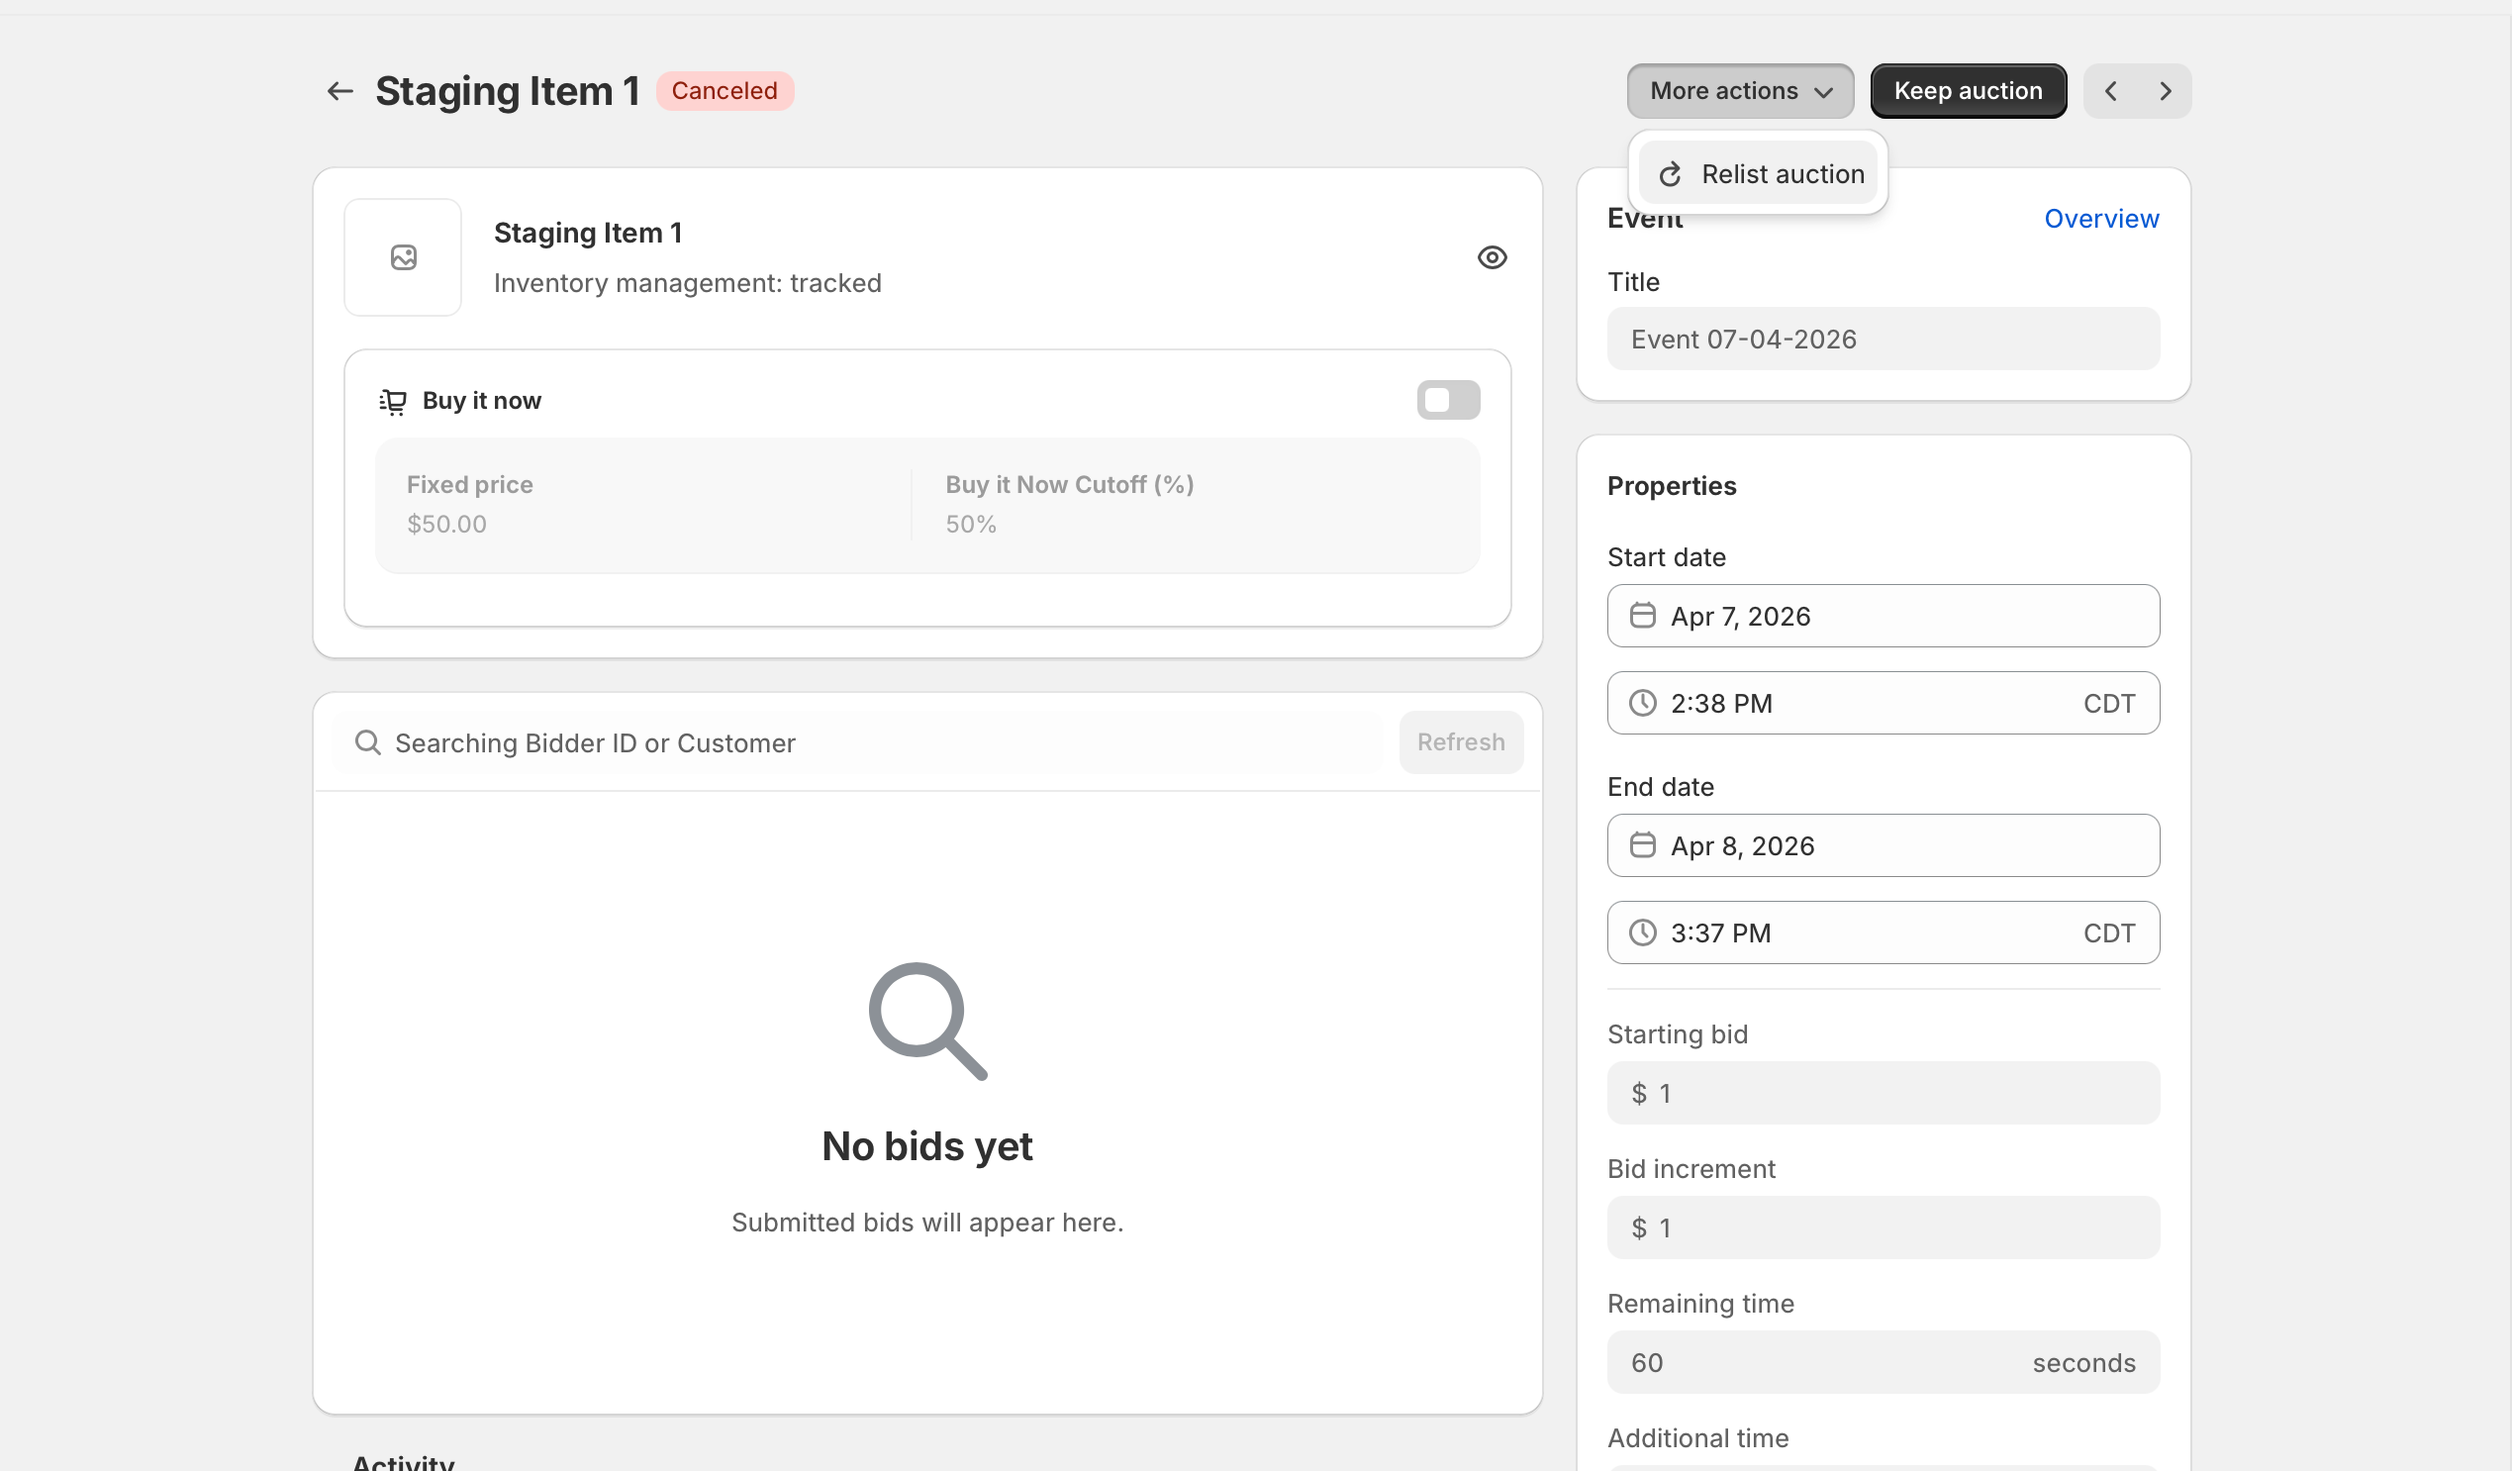
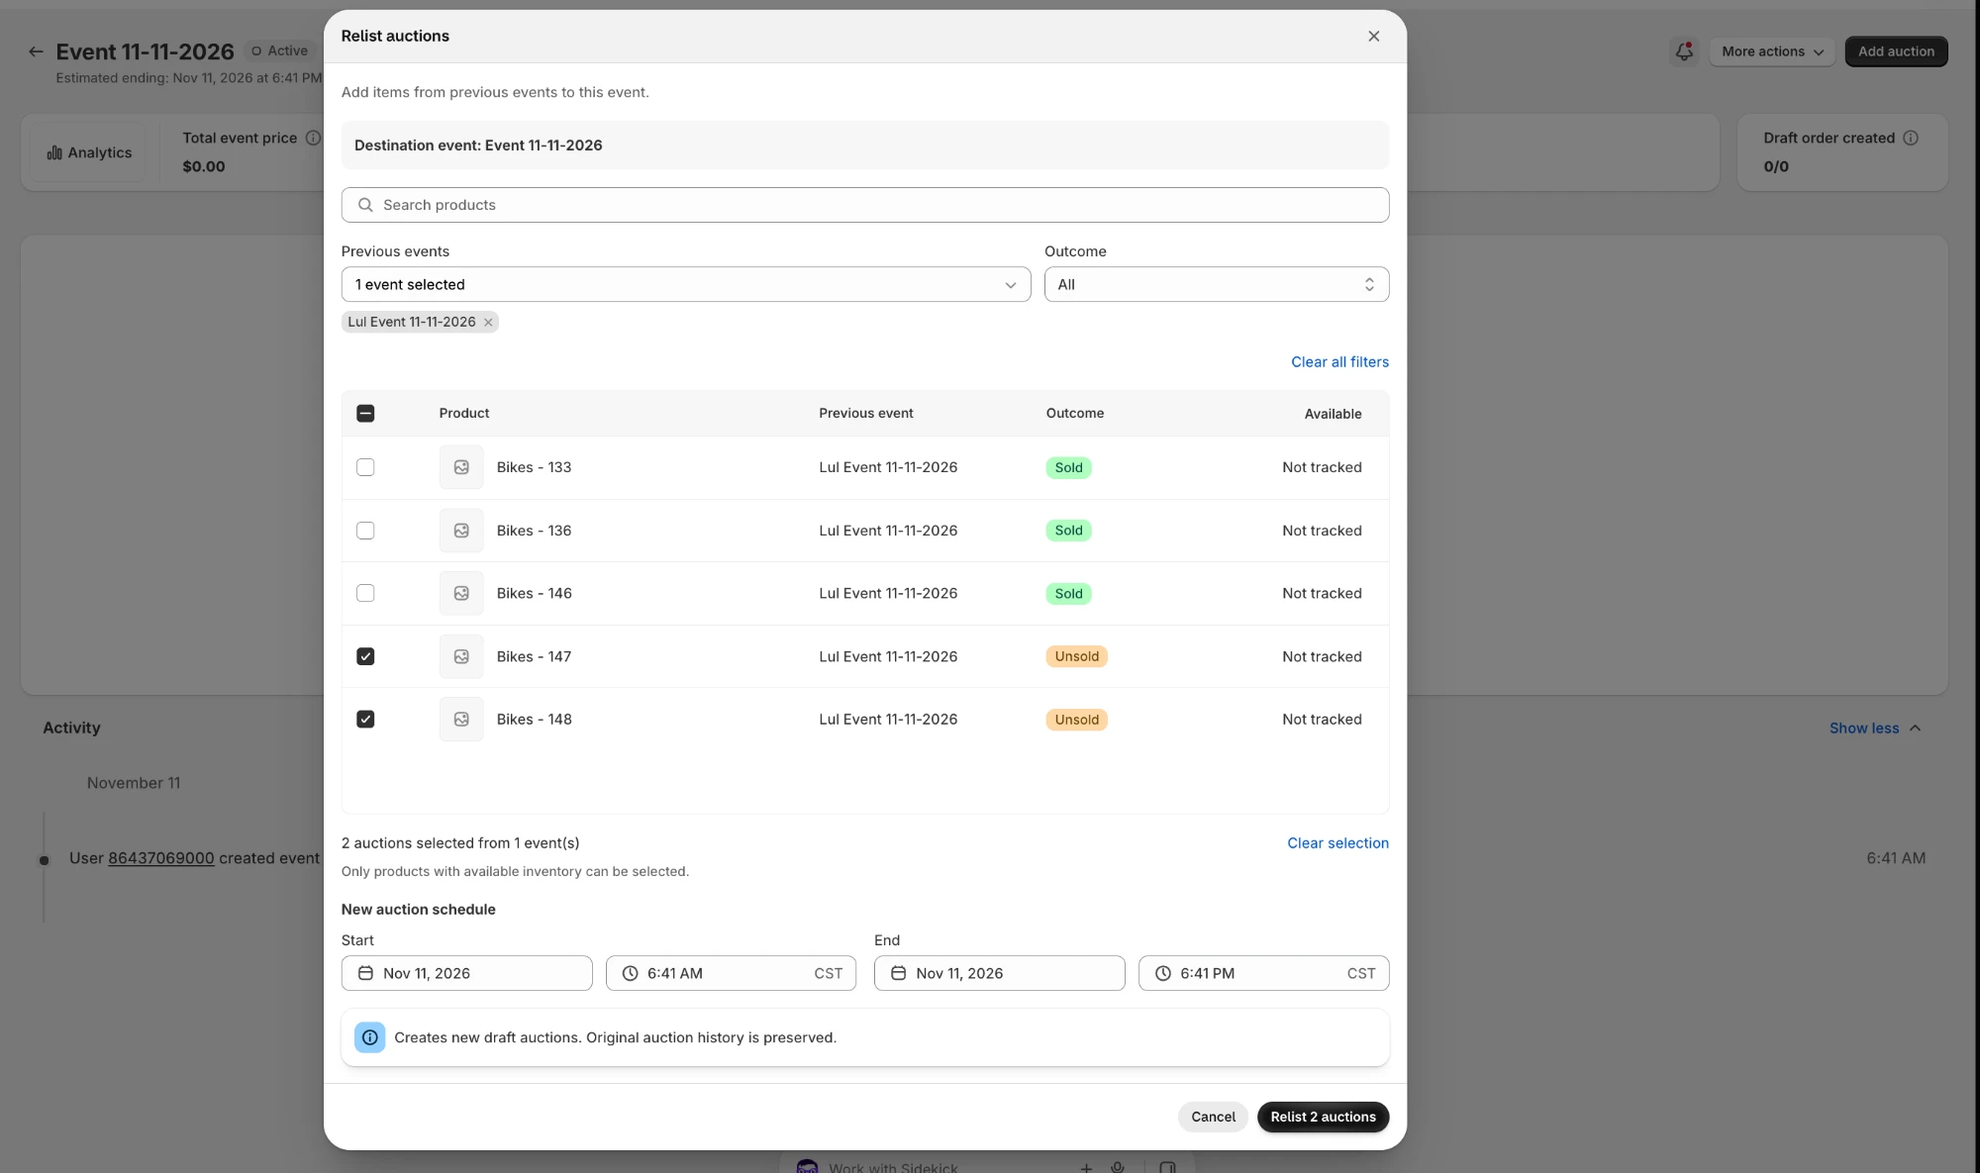
docs: update Relisting Auctions for the new relist flow

diff --git a/docs/managing-auctions/relisting-auctions.md b/docs/managing-auctions/relisting-auctions.md
@@ -1,124 +1,140 @@
 ---
 title: "Relisting Auctions"
-description: "Relist an ended or canceled auction in a few clicks. The new auction copies the original settings into the event you choose."
+description: "Bring auctions from previous events into a new event: filter by outcome, choose the auctions, set a new schedule and relist them in one go."
 ---
 
-Relisting lets you quickly create a new auction from one that has already ended or was canceled. The new auction copies the original auction settings and creates a new version inside the event you choose.
+Relisting lets you bring auctions from previous events into a new event, for example items that didn't sell or whose invoice expired. Relisting creates new auctions. The original auctions and their history stay unchanged.
 
-:::info
+You can relist auctions in two ways:
 
-When you relist an auction, all auction settings are duplicated except the start and end dates. The new auction is created as a **Draft** by default.
+- **From the event page**: relist auctions straight into the event as drafts. See [Relist auctions into an event](#relist-auctions-into-an-event).
+- **From the Add auctions page**: add relisted items to the list of products you're adding, then publish them or save them as drafts. See [Relist while adding auctions](#relist-while-adding-auctions).
 
-:::
-
-By default, the auction start time is set to the time you relist it, and the auction end time is aligned with the selected event’s estimated end time. You can change both values before saving.
-
-### What carries over when you relist
-
-- Auction settings such as starting bid and bid increment
-- Buy It Now settings, if they were enabled on the original auction
-- The item connected to the original auction
-
-### What changes when you relist
-
-- You choose which event the new auction will be added to
-- You can set a new start date and time
-- You can set a new end date and time
-- The new auction is saved as a **Draft**
-
-:::note
-
-Relisting creates a new auction. It does not reopen or change the original ended or canceled auction.
-
-:::
-
-## Relist multiple auctions from an event
-
-You can relist several auctions at once from the event auction list. This is useful when you want to reuse multiple unsold or canceled items in a new event.
+## Relist auctions into an event
 
 #### 1. Open the event
 
-Go to the event that contains the auctions you want to reuse.
+Open the event you want to add the auctions to.
 
-#### 2. Select the auctions
+#### 2. Open Relist auctions
 
-In the auction list, select one or more auctions that have ended or been canceled.
+Click **More actions** and select **Relist auctions**.
 
-#### 3. Open the bulk actions menu
+![Event page with the More actions menu open and Relist auctions highlighted](/img/docs/managing-auctions/relisting-auctions-1.png)
 
-Click the actions menu for the selected auctions, then choose **Relist auction**.
+#### 3. Find the auctions to relist
 
-#### 4. Review the new auction details
+The **Relist auctions** window shows the **Destination event** at the top. To find auctions:
 
-Choose the destination event, then review the default start and end dates.
+- In **Previous events**, select one or more events, or **All events**.
+- Or use **Search products** to find a product across all previous events.
+- Use **Outcome** to show only auctions with a certain result. See [Outcomes](#outcomes).
 
-#### 5. Save the relisted auctions
+Click **Clear all filters** to start over.
 
-Confirm the action to create new draft auctions.
+![Relist auctions window with one previous event selected, a list of Sold and Unsold auctions, two of them checked, and the New auction schedule fields](/img/docs/managing-auctions/relisting-auctions-2.png)
 
-![Event auction list showing multiple auctions selected and the Relist auction option in the bulk actions menu](/img/docs/managing-auctions/relisting-auctions-1.png)
+#### 4. Select the auctions
 
-## Relist a single auction
+Check the auctions you want to relist. The table shows each auction's **Product**, **Previous event**, **Outcome** and **Available** inventory. The number of selected auctions appears below the table. Click **Clear selection** to uncheck them all.
 
-You can also relist an auction directly from its details page.
+#### 5. Set the new schedule
 
-#### 1. Open the auction
+Under **New auction schedule**, set the **Start** and **End** date and time for the new auctions. By default, they start now and end at the event's estimated end time. The end must be after the start.
 
-Open the ended or canceled auction you want to relist.
+#### 6. Relist
 
-#### 2. Open More actions
+Click **Relist [number] auctions**. The new auctions are added to the event as **Draft**, and a confirmation shows how many were relisted.
 
-Click **More actions** in the top-right corner of the auction page.
+![Event auction list showing the two relisted auctions with Draft status and a confirmation saying 2 auctions relisted](/img/docs/managing-auctions/relisting-auctions-3.png)
 
-#### 3. Choose Relist auction
+The new auctions keep the original auctions' settings, such as starting bid, bid increment, popcorn bidding, Buy It Now and Make offer. Review them, then publish them when you're ready.
 
-Select **Relist auction** from the menu.
+:::note
 
-#### 4. Set the event and dates
-
-In the relist window, select the destination event and review or update the start and end date fields.
-
-#### 5. Create the draft auction
-
-Click **Relist auction** to create the new draft auction.
-
-![Auction details page with the More actions menu open and Relist auction selected](/img/docs/managing-auctions/relisting-auctions-2.png)
-
-![Relist auction dialog showing event selection and editable auction start and end dates](/img/docs/managing-auctions/relisting-auctions-3.png)
-
-## How the dates are set
-
-- **Start date and time:** Defaults to the moment you relist the auction
-- **End date and time:** Defaults to the selected event’s estimated end time
-- **Status:** The new auction is created as a draft
-
-:::tip
-
-Review the auction end date before saving, especially if you are relisting into a different event. This helps make sure the auction ends when you expect.
+When you relist a large number of auctions, a progress bar shows how many have been relisted so far.
 
 :::
 
-## Best practices
+## Relist while adding auctions
 
-- Use relisting for items that did not sell and need to appear in a future event
-- Double-check the destination event before creating the new draft
-- Review copied settings such as starting bid, bid increment, and Buy It Now configuration
-- Activate the draft only after confirming the schedule and pricing are correct
+#### 1. Open Add auctions
+
+Open the event and click **Add auction**.
+
+#### 2. Open Relist auctions
+
+In the **Relist auctions** card, click **Select auctions to relist**.
+
+![Add auctions to event page with an arrow pointing to the Relist auctions card and its Select auctions to relist button](/img/docs/managing-auctions/relisting-auctions-4.png)
+
+#### 3. Choose the auctions
+
+Find and select auctions the same way as in [Relist auctions into an event](#relist-auctions-into-an-event). Your selections are kept when you change filters.
+
+#### 4. Add them to the list
+
+Click **Add [number] auctions**. The products are added to **Products/collections** on the page.
+
+#### 5. Publish or save as draft
+
+Review the **Properties**, such as dates, starting bid and bid increment, then click **Publish** or **Save as draft**.
+
+When you relist this way, the new auctions use the properties on the **Add auctions** page instead of the original auctions' settings. Buy It Now and Make offer are turned off.
+
+## Which auctions you can relist
+
+The **Relist auctions** window shows auctions from previous events that have ended: their estimated end time has passed and none of their auctions are still running. The event you're relisting into isn't included.
+
+From those events, you can relist auctions that ended, sold, or were canceled. If a product was in the same event more than once, only its latest auction is shown.
+
+You can't select an auction when:
+
+- The product has no available inventory. Products that don't track inventory, or that continue selling when out of stock, can always be selected.
+- The product is already in the destination event.
+
+:::info
+
+Only products with available inventory can be selected.
+
+:::
+
+### Outcomes
+
+Each auction shows its **Outcome**. Use the **Outcome** filter to narrow the list:
+
+| Filter | Shows |
+|---|---|
+| **All** | Every auction you can relist |
+| **Unsold** | Every auction that didn't result in a sale: No sale, Unsold, Invoice canceled and Invoice expired |
+| **No sale** | Auctions that ended without bids, or that were canceled |
+| **Invoice canceled** | Auctions whose invoice was canceled |
+| **Invoice expired** | Auctions whose invoice expired before it was paid |
+| **Sold (stock available)** | Sold auctions whose product still has stock |
+
+The **Invoice canceled** and **Invoice expired** filters appear for stores that use [Auction Cart & Checkout](/bidding-purchasing/auction-cart-checkout).
+
+## If some auctions can't be relisted
+
+If any selected auction can't be relisted, nothing is relisted. The window lists the reasons and how many auctions each one affects. Uncheck those auctions, or fix the issue, and try again.
 
 ## Frequently asked questions
 
 ### Does relisting change the original auction?
 
-No. Relisting creates a separate new draft auction and leaves the original auction unchanged.
-
-### Can I relist canceled auctions and ended auctions?
-
-Yes. You can relist auctions that were previously ended or canceled.
+No. Relisting creates new auctions. The original auctions and their history are preserved.
 
 ### Is the new auction immediately active?
 
-No. The new auction is created as a draft by default.
+When you relist from the event page, the new auctions are created as drafts. When you relist from the **Add auctions** page, you choose whether to publish them or save them as drafts.
 
-### Can I update the dates before saving?
+### Can I relist auctions from several events at once?
 
-Yes. You can change both the start and end date and time in the relist dialog before creating the new auction.
+Yes. Select several events in **Previous events**, or select **All events**.
+
+## Related pages
+
+- [Creating events](/auction-setup/events)
+- [Creating auctions](/auction-setup/auctions)
+- [Auction statuses](/managing-auctions/auction-statuses)
+- [Bulk actions](/managing-auctions/bulk-actions)

diff --git a/docs/managing-auctions/bulk-actions.md b/docs/managing-auctions/bulk-actions.md
@@ -24,8 +24,9 @@ After selecting multiple auctions, you can apply actions such as:
 - Edit the **start date** or **end date**
 - **Enable** or **disable Buy It Now**
 - **Hide** or **Show Widget**
-- **Relist Auction**
 - **Delete** auctions
+
+To relist several auctions at once, use **Relist auctions** on the event page. See [Relisting auctions](/managing-auctions/relisting-auctions).
 
 ### Bulk edit auctions
 
